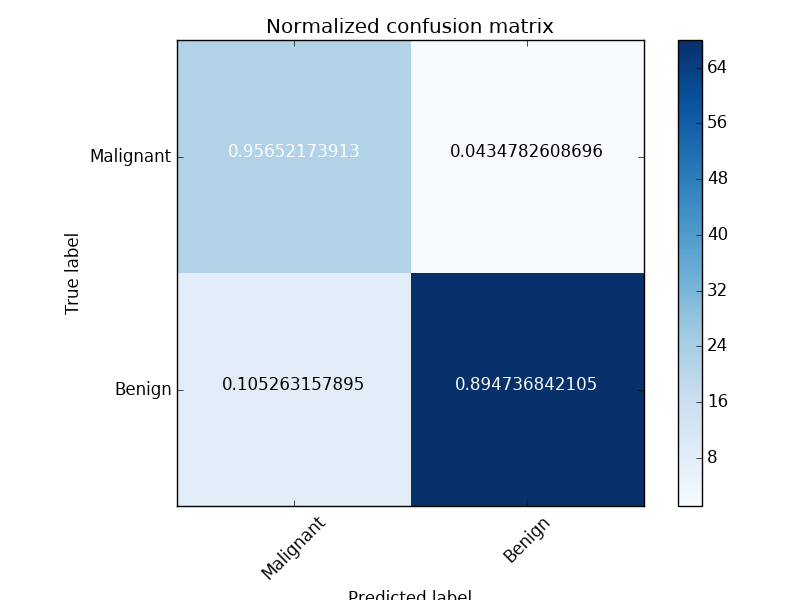
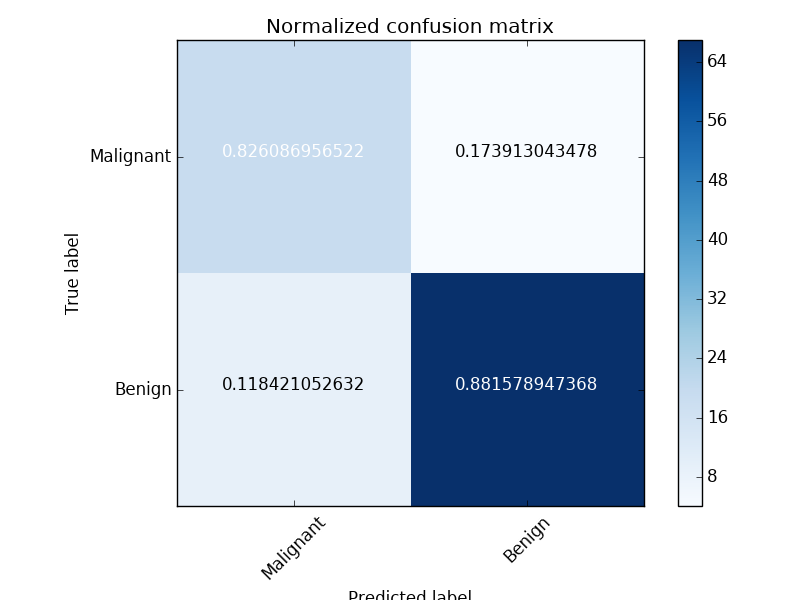
Added more interesting plots, visualing results

diff --git a/classifiers.py b/classifiers.py
@@ -60,29 +60,6 @@ def preprocess_data(X,Y):
 def logistic(train_x, train_y, valid_x, valid_y):
     # First Possible Model
     model_a = LogisticRegression(C=1e6, solver='liblinear')
-
-    # skf = StratifiedKFold(n_splits=2)
-
-    # # train_scores, valid_scores = validation_curve(model_a, train_x, train_y, "alpha",numpy.logspace(-7, 3, 3))
-    # features  = train_x.tolist() + valid_x.tolist()
-    # print len(features)
-    # print len(features[0])
-    # # features = features.tolist()
-    # features = numpy.asarray(features)
-    # print type(features)
-    # labels = train_y + valid_y
-    # labels = numpy.asarray(labels)
-    # labels = labels.reshape((len(labels,)))
-    # print labels.shape
-    # print type(labels)
-    # from sklearn.naive_bayes import GaussianNB
-    # from sklearn.linear_model import Ridge
-    # est = LogisticRegression()
-    # print est.get_params().keys()
-    # train_scores, test_scores= validation_curve(Ridge(),features,labels,"max_iter", numpy.logspace(-7, 3, 3))
-    # plt.plot(train_scores,test_scores)
-    # plt.show()
-    # train_sizes, train_scores, test_scores  = plot_learning_curve(model_a, "Learning Curves", features, labels, ylim=None, cv=skf, n_jobs=1, train_sizes=numpy.asarray([1,50,100,150,200]))
     model_a = model_a.fit(train_x, train_y)
     prediction = model_a.predict(valid_x)
     accuracy_a = metrics.accuracy_score(valid_y, prediction)
@@ -164,7 +141,22 @@ def kmeansimplementation(train_x, train_y, valid_x, valid_y):
     ax.set_zlabel('Perimeter Mean')
     plt.savefig("kmeans_cluster.png")
     return better_model
-
+    
+def comparemodels(models,accuracies):
+    #  Models would be a list of the models names for us to compare
+    #  Accuracies would be the accuracy of the m respective models
+    y_pos = numpy.arange((len(models)))
+    plt.clf()
+    bargraph = plt.bar(y_pos,accuracies,align='center',alpha=0.5)
+    bargraph[0].set_color('r')
+    bargraph[1].set_color('g')
+    bargraph[2].set_color('b')
+    bargraph[3].set_color('c')
+    plt.xticks(y_pos,models)
+    plt.ylabel('Model Accuracies')
+    plt.title('Models used and their respective accuracies')
+    plt.savefig("Model_comparison.png")
+    
 #  we would then see how they do with the testing data
 features,labels,temp = getdataset()
 #  preprocess the dataset
@@ -231,4 +223,24 @@ plt.figure()
 plot_confusion_matrix(logistic_cnf, classes=class_names, normalize=True, title='Normalized confusion matrix')
 plt.savefig("logisitic_confusion_matrix_normalized.png")
 
-# svm_model = supportvectors(features,train_x,train_y,valid_x,valid_y)
+svm_model = supportvectors(features,train_x,train_y,valid_x,valid_y)
+svm_prediction = svm_model.predict(test_x)
+svm_accuracy = metrics.accuracy_score(test_y, svm_prediction)
+svm_cnf = metrics.confusion_matrix(test_y, svm_prediction)
+svm_class_report = metrics.classification_report(numpy.asarray(test_y), numpy.asarray(svm_prediction))
+print "Classification Report for SVM Model\n", svm_class_report
+print svm_cnf
+print "Accuracy : ", svm_accuracy
+# Plot non-normalized confusion matrix
+plt.figure()
+plot_confusion_matrix(svm_cnf, classes=class_names, title='Confusion matrix, without normalization')
+plt.savefig("svm_confusion_matrix.png")
+# Plot normalized confusion matrix
+plt.figure()
+plot_confusion_matrix(svm_cnf, classes=class_names, normalize=True, title='Normalized confusion matrix')
+plt.savefig("svm_confusion_matrix_normalized.png")
+
+models = ["Logistic","Neural Networks","SVM","KMeans"]
+accuracies = [logistic_accuracy,nn_accuracy,svm_accuracy,kmeans_accuracy]
+
+comparemodels(models,accuracies)

diff --git a/svm.py b/svm.py
@@ -31,7 +31,6 @@ def plot_linear(X,temp):
     plot_classifications(X,temp)
 
     plt.title('SVM classifier using a linear kernel')
-    plt.show()
     plt.savefig("svm_linear.png")
 
     accuracy = metrics.accuracy_score(temp, prediction)
@@ -39,6 +38,7 @@ def plot_linear(X,temp):
 
 def plot_rbf(X,temp):
     # Create plot of SVM classifier using a Radial Basis Function(RBF) kernel
+    plt.clf()
     clf = svm.SVC(kernel='rbf', gamma=0.7, C=1.0)
     clf.fit(X, temp)
     prediction = clf.predict(X)
@@ -61,7 +61,6 @@ def plot_rbf(X,temp):
     plot_classifications(X,temp)
 
     plt.title('SVM classifier using a Radial Basis Function(RBF) kernel')
-    plt.show()
     plt.savefig("svm_rbf.png")
 
     accuracy = metrics.accuracy_score(temp, prediction)
